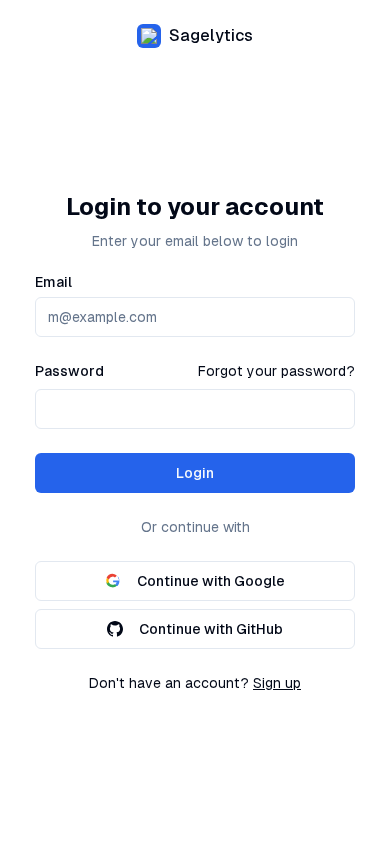
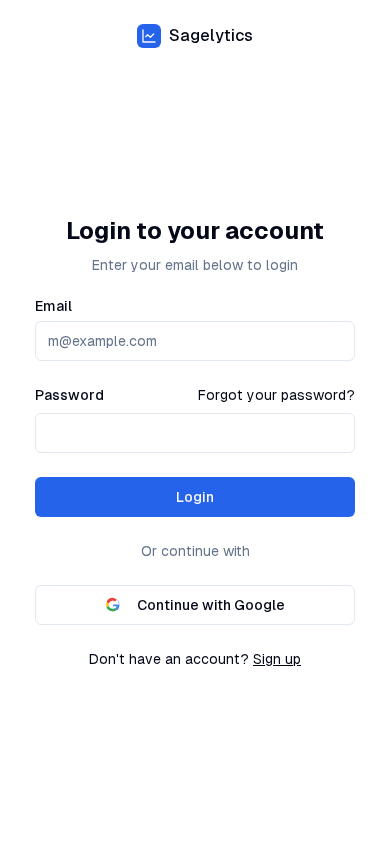
docs: refresh ui pass screenshots and finding statuses

diff --git a/docs/wip/ui-pass/findings.md b/docs/wip/ui-pass/findings.md
@@ -7,47 +7,50 @@ Severity:
 - **bad**: clearly wrong, but the page still works.
 - **polish**: cosmetic.
 
-Status is `planned` until Phase B lands. After that it reads `fixed` or `left for later`, with the reason.
+Status reads `fixed` (with file:line) or `left for later` (with the reason). `n/a` rows are screenshots with nothing to fix.
+
+After the fixes, `console.json` shows no console errors or failed requests on any route except the deliberate 404 at `/missing-ui-pass`. The "before" screenshots are in git history at 9737187.
 
 | # | Route | Screenshot | Severity | Problem | Fix | Status |
 |---|-------|------------|----------|---------|-----|--------|
-| 1 | `/` | home-desktop | blocker | Hero image `/dashboard-preview.png` is a 0-byte file, so the hero shows a broken image | Remove the image block; keep the copy | planned |
-| 2 | `/` | home-desktop, home-mobile | blocker | Features claim "Track prices across Amazon, eBay, Walmart" — no marketplace integration exists (onboarding rejects marketplace URLs) | Drop the marketplace card; describe direct website monitoring only | planned |
-| 3 | `/` | home-desktop | blocker | Pricing section invents $49/$99/$199 plans with SMS, API access, white-label; no billing exists | Remove the pricing section and its nav link | planned |
-| 4 | `/` | home-desktop, home-mobile | bad | "Start Free Trial" implies a paid product with a trial | Rename to "Get Started" | planned |
-| 5 | `/` | home-desktop | bad | "advanced encryption technology" and "real-time" claims are unbacked | Reword to what the app does (scheduled checks, account-scoped data) | planned |
-| 6 | `/` | home-mobile | bad | Header overflows at 390px; "Sign Up" is cut off | Hide "Log In" text button below `sm`, tighten gaps | planned |
-| 7 | all app routes | dashboard-desktop etc. | blocker | Sidebar brand reads "PriceWhisperer" | "Sagelytics" with the landing-page LineChart icon | planned |
-| 8 | all app routes | dashboard-desktop etc. | blocker | Sidebar card promises "increase revenue by 23% with AI suggestions" | Replace with a neutral pointer to Insights, no number | planned |
-| 9 | all app routes | dashboard-desktop etc. | polish | Sidebar "View Insights" button is not a link | Wrap in `Link href="/insights"` | planned |
-| 10 | all app routes | dashboard-desktop, settings-desktop | bad | Two primary colours: purple `brand-*` in the sidebar, blue `--primary` elsewhere; dark mode switches `--primary` to purple | Retune `--brand-*` to hue 221 and set dark `--primary`/`--ring` to blue | planned |
-| 11 | `/login`, `/register`, `/forgot-password`, `/reset-password` | login-*, register-*, forgot-password-*, reset-password-* | bad | Logo uses `/owl-logo.png`, which does not exist; broken image and a 400 from `/_next/image` in the console | Use the LineChart icon the landing page uses | planned |
-| 12 | `/login` | login-desktop | polish | Login form logs the session object to the console | Remove the debug log | planned |
-| 13 | `/forgot-password` | forgot-password-desktop | bad | With SMTP unset, the 503 "not configured" reply shows as a generic "Failed to request password reset" toast | Show an inline, honest message that email reset is not set up | planned |
-| 14 | `/dashboard` | dashboard-desktop, dashboard-mobile | blocker | Data Quality shows "100% Great data quality!" with no data | Show "--" and "No data yet" when there are no products | planned |
-| 15 | `/dashboard` | dashboard-desktop | blocker | Market Strength shows "0/100 Room for improvement" with no comparisons | Show "--" and "No comparisons yet" | planned |
-| 16 | `/dashboard` | dashboard-desktop | bad | Price Analysis shows a green "0.0% vs competitors" with no matches | Show "No matched products yet" when there are none | planned |
-| 17 | `/dashboard` | dashboard-desktop | polish | Summary error state titles every card "Error" | Keep the real card titles in the error state | planned |
-| 18 | `/dashboard` | — | bad | Anonymous visitors get a bare "Unauthorized" page instead of a redirect | `redirect('/login')` | planned |
-| 19 | `/dashboard` | dashboard-mobile | polish | Onboarding banner text and link wrap awkwardly on mobile | Stack on small screens | planned |
+| 1 | `/` | home-desktop | blocker | Hero image `/dashboard-preview.png` is a 0-byte file, so the hero shows a broken image | Remove the image block; keep the copy | fixed: hero image block removed, empty file deleted (`src/components/landing-page.tsx:34-60`) |
+| 2 | `/` | home-desktop, home-mobile | blocker | Features claim "Track prices across Amazon, eBay, Walmart" — no marketplace integration exists (onboarding rejects marketplace URLs) | Drop the marketplace card; describe direct website monitoring only | fixed: marketplace card replaced with discovery and website tracking (`src/components/landing-page.tsx:74-83`) |
+| 3 | `/` | home-desktop | blocker | Pricing section invents $49/$99/$199 plans with SMS, API access, white-label; no billing exists | Remove the pricing section and its nav link | fixed: pricing section and nav link removed (`src/components/landing-page.tsx:10-20`, section deleted) |
+| 4 | `/` | home-desktop, home-mobile | bad | "Start Free Trial" implies a paid product with a trial | Rename to "Get Started" | fixed: "Get Started" (`src/components/landing-page.tsx:49`) |
+| 5 | `/` | home-desktop | bad | "advanced encryption technology" and "real-time" claims are unbacked | Reword to what the app does (scheduled checks, account-scoped data) | fixed: copy reworded (`src/components/landing-page.tsx:44,101`) |
+| 6 | `/` | home-mobile | bad | Header overflows at 390px; "Sign Up" is cut off | Hide "Log In" text button below `sm`, tighten gaps | fixed: smaller buttons and padding below `sm` (`src/components/landing-page.tsx:10-28`) |
+| 7 | all app routes | dashboard-desktop etc. | blocker | Sidebar brand reads "PriceWhisperer" | "Sagelytics" with the landing-page LineChart icon | fixed (`src/components/layout/Sidebar.tsx:112-113`) |
+| 8 | all app routes | dashboard-desktop etc. | blocker | Sidebar card promises "increase revenue by 23% with AI suggestions" | Replace with a neutral pointer to Insights, no number | fixed (`src/components/layout/Sidebar.tsx:151-154`) |
+| 9 | all app routes | dashboard-desktop etc. | polish | Sidebar "View Insights" button is not a link | Wrap in `Link href="/insights"` | fixed (`src/components/layout/Sidebar.tsx:156-158`) |
+| 10 | all app routes | dashboard-desktop, settings-desktop | bad | Two primary colours: purple `brand-*` in the sidebar, blue `--primary` elsewhere; dark mode switches `--primary` to purple | Retune `--brand-*` to hue 221 and set dark `--primary`/`--ring` to blue | fixed (`src/styles/globals.css:40-49,62,79,84-93`) |
+| 11 | `/login`, `/register`, `/forgot-password`, `/reset-password` | login-*, register-*, forgot-password-*, reset-password-* | bad | Logo uses `/owl-logo.png`, which does not exist; broken image and a 400 from `/_next/image` in the console | Use the LineChart icon the landing page uses | fixed (`src/app/login/page.tsx:26`, `src/app/register/page.tsx:88`, `src/app/forgot-password/page.tsx:64`, `src/app/reset-password/page.tsx:142`) |
+| 12 | `/login` | login-desktop | polish | Login form logs the session object to the console | Remove the debug log | fixed (`src/app/login/page.tsx:15-19`, the effect no longer logs) |
+| 13 | `/forgot-password` | forgot-password-desktop | bad | With SMTP unset, the 503 "not configured" reply shows as a generic "Failed to request password reset" toast | Show an inline, honest message that email reset is not set up | fixed: inline "not configured" message (`src/app/forgot-password/page.tsx:34-37,79-89`) |
+| 14 | `/dashboard` | dashboard-desktop, dashboard-mobile | blocker | Data Quality shows "100% Great data quality!" with no data | Show "--" and "No data yet" when there are no products | fixed (`src/components/dashboard/SummaryCards.tsx:205-207`) |
+| 15 | `/dashboard` | dashboard-desktop | blocker | Market Strength shows "0/100 Room for improvement" with no comparisons | Show "--" and "No comparisons yet" | fixed (`src/components/dashboard/SummaryCards.tsx:224-226`) |
+| 16 | `/dashboard` | dashboard-desktop | bad | Price Analysis shows a green "0.0% vs competitors" with no matches | Show "No matched products yet" when there are none | fixed (`src/components/dashboard/SummaryCards.tsx:177-192`) |
+| 17 | `/dashboard` | dashboard-desktop | polish | Summary error state titles every card "Error" | Keep the real card titles in the error state | fixed (`src/components/dashboard/SummaryCards.tsx:43-46`) |
+| 18 | `/dashboard` | — | bad | Anonymous visitors get a bare "Unauthorized" page instead of a redirect | `redirect('/login')` | fixed (`src/app/dashboard/page.tsx:21`) |
+| 19 | `/dashboard` | dashboard-mobile | polish | Onboarding banner text and link wrap awkwardly on mobile | Stack on small screens | fixed (`src/app/dashboard/page.tsx:31`) |
 | 20 | `/dashboard` | dashboard-desktop | polish | Pricing Trends shows Log/Filter/range controls while empty | left as is | left for later: the controls are harmless, and hiding them changes the chart component |
-| 21 | `/insights` | insights-desktop, insights-mobile | blocker | Shows a hardcoded insight ("prices 12% below market", "competitors +8%") to a user with no data | Replace with an honest empty state that links to competitors | planned |
-| 22 | `/settings` | settings-desktop | blocker | Billing tab is fabricated: Pro plan, Visa 4242, invoices. No billing exists | Remove the Billing tab and its navbar menu item | planned |
-| 23 | `/settings` | settings-desktop | bad | Avatar falls back to `/placeholder-avatar.jpg`, which 404s | Use the initials fallback only | planned |
-| 24 | `/settings` | settings-desktop | bad | "Change Avatar" uploads nothing and shows an "Avatar updated (mock)" toast | Remove the mock upload button; keep the Avatar URL field | planned |
-| 25 | `/settings` | settings-mobile | polish | Tab list overflows at 390px | Let the tab list scroll horizontally | planned |
-| 26 | `/settings` | — | polish | Theme and dev-mode storage keys still say `pricewhisperer-*` | Rename to `sagelytics-*` | planned |
-| 27 | `/settings/data` | settings-data-mobile | polish | Tab list clips on mobile | Let the tab list scroll horizontally | planned |
+| 21 | `/insights` | insights-desktop, insights-mobile | blocker | Shows a hardcoded insight ("prices 12% below market", "competitors +8%") to a user with no data | Replace with an honest empty state that links to competitors | fixed (`src/app/insights/page.tsx:25-39`) |
+| 22 | `/settings` | settings-desktop | blocker | Billing tab is fabricated: Pro plan, Visa 4242, invoices. No billing exists | Remove the Billing tab and its navbar menu item | fixed: tab, navbar link and `SettingsBilling.tsx` removed (`src/app/settings/page.tsx:50-55`, `src/components/layout/Navbar.tsx`) |
+| 23 | `/settings` | settings-desktop | bad | Avatar falls back to `/placeholder-avatar.jpg`, which 404s | Use the initials fallback only | fixed (`src/components/settings/SettingsProfile.tsx:131-133`) |
+| 24 | `/settings` | settings-desktop | bad | "Change Avatar" uploads nothing and shows an "Avatar updated (mock)" toast | Remove the mock upload button; keep the Avatar URL field | fixed (`src/components/settings/SettingsProfile.tsx:134-136`) |
+| 25 | `/settings` | settings-mobile | polish | Tab list overflows at 390px | Let the tab list scroll horizontally | fixed (`src/app/settings/page.tsx:50`) |
+| 26 | `/settings` | — | polish | Theme and dev-mode storage keys still say `pricewhisperer-*` | Rename to `sagelytics-*` | fixed (`src/app/layout.tsx:37`, `src/components/layout/DevModeToggle.tsx:7`). Saved theme choices under the old key reset once |
+| 27 | `/settings/data` | settings-data-mobile | polish | Tab list clips on mobile | Let the tab list scroll horizontally | fixed: icons hidden and smaller text below `sm` (`src/components/settings/DataImportExportClient.tsx:179-190`) |
 | 28 | `/settings/data` | settings-data-desktop | polish | No issues beyond #27 | — | n/a |
-| 29 | `/competitors` | competitors-desktop | bad | Subtitle says "across marketplaces" | "Monitor and analyze competitor websites" | planned |
-| 30 | `/competitors` | competitors-desktop | bad | "Avg Match Score 0%" with no competitors | Show "--" when there are no competitors | planned |
-| 31 | `/products` | products-mobile | polish | Header and actions wrap badly on mobile | Stack the header on small screens | planned |
+| 29 | `/competitors` | competitors-desktop | bad | Subtitle says "across marketplaces" | "Monitor and analyze competitor websites" | fixed (`src/app/competitors/page.tsx:8,23`) |
+| 30 | `/competitors` | competitors-desktop | bad | "Avg Match Score 0%" with no competitors | Show "--" when there are no competitors | fixed (`src/app/competitors/CompetitorsClient.tsx:24-26,49`) |
+| 31 | `/products` | products-mobile | polish | Header and actions wrap badly on mobile | Stack the header on small screens | fixed (`src/components/products/ProductPageClient.tsx:219,232,392`) |
 | 32 | `/products` | products-desktop | polish | Empty states read correctly | — | n/a |
-| 33 | `/monitoring` | monitoring-mobile | polish | Title and "Refresh All" crowd each other at 390px | Stack the header on small screens | planned |
+| 33 | `/monitoring` | monitoring-mobile | polish | Title and "Refresh All" crowd each other at 390px | Stack the header on small screens | fixed: the no-op "Refresh All" removed; the tasks panel keeps its working Refresh (`src/app/monitoring/page.tsx:15`) |
 | 34 | `/monitoring` | monitoring-desktop | polish | Empty states read correctly | — | n/a |
 | 35 | `/onboarding` | onboarding-desktop, onboarding-mobile | polish | No problems found; the marketplace guard works | — | n/a |
 | 36 | `/register` | register-desktop, register-mobile | polish | Only the logo issue (#11) | — | n/a |
 | 37 | `/reset-password` | reset-password-desktop, reset-password-mobile | polish | Without a token it shows "Invalid reset link" with no brand header | left as is | left for later: low traffic, and the card already links back to login |
-| 38 | `/missing-ui-pass` (404) | missing-ui-pass-desktop, missing-ui-pass-mobile | polish | 404 page logs `console.error` on every view and has no brand | Drop the console.error | planned |
-| 39 | navbar | dashboard-desktop | polish | Bell button does nothing | Remove it until notifications have an inbox | planned |
-| 40 | `/dashboard`, `/products` | dashboard-desktop | polish | Page metadata says "across marketplaces" | Reword | planned |
+| 38 | `/missing-ui-pass` (404) | missing-ui-pass-desktop, missing-ui-pass-mobile | polish | 404 page logs `console.error` on every view and has no brand | Drop the console.error | fixed (`src/app/not-found.tsx:5`). Brand header left for later: cosmetic |
+| 39 | navbar | dashboard-desktop | polish | Bell button does nothing | Remove it until notifications have an inbox | fixed (`src/components/layout/Navbar.tsx`) |
+| 40 | `/dashboard`, `/products` | dashboard-desktop | polish | Page metadata says "across marketplaces" | Reword | fixed (`src/app/dashboard/page.tsx:16`); `/products` metadata was already accurate |
+| 41 | `/login` | login-desktop | bad | "Continue with GitHub" button, but only Google and credentials providers are configured | Remove the button | fixed (`src/components/login-form.tsx:157-176`) |
